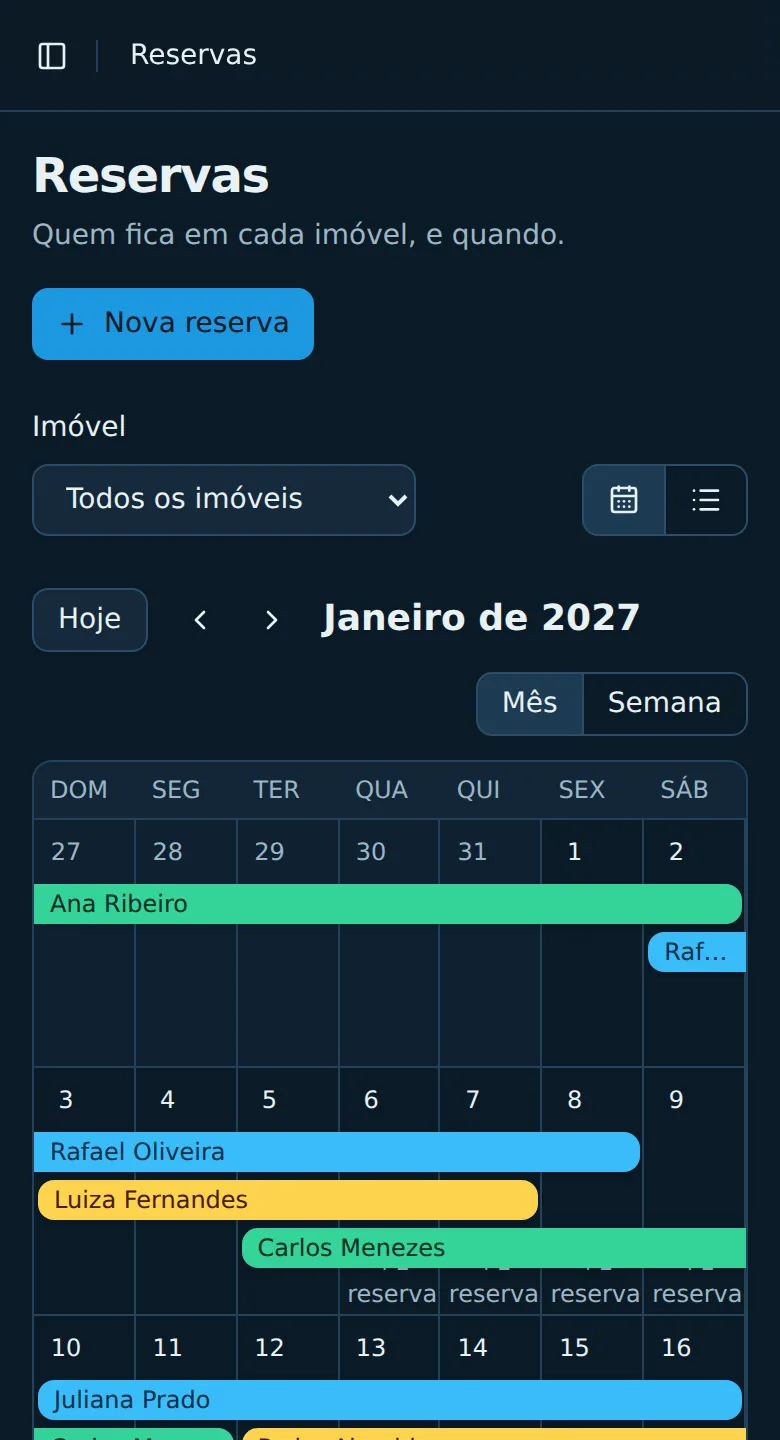
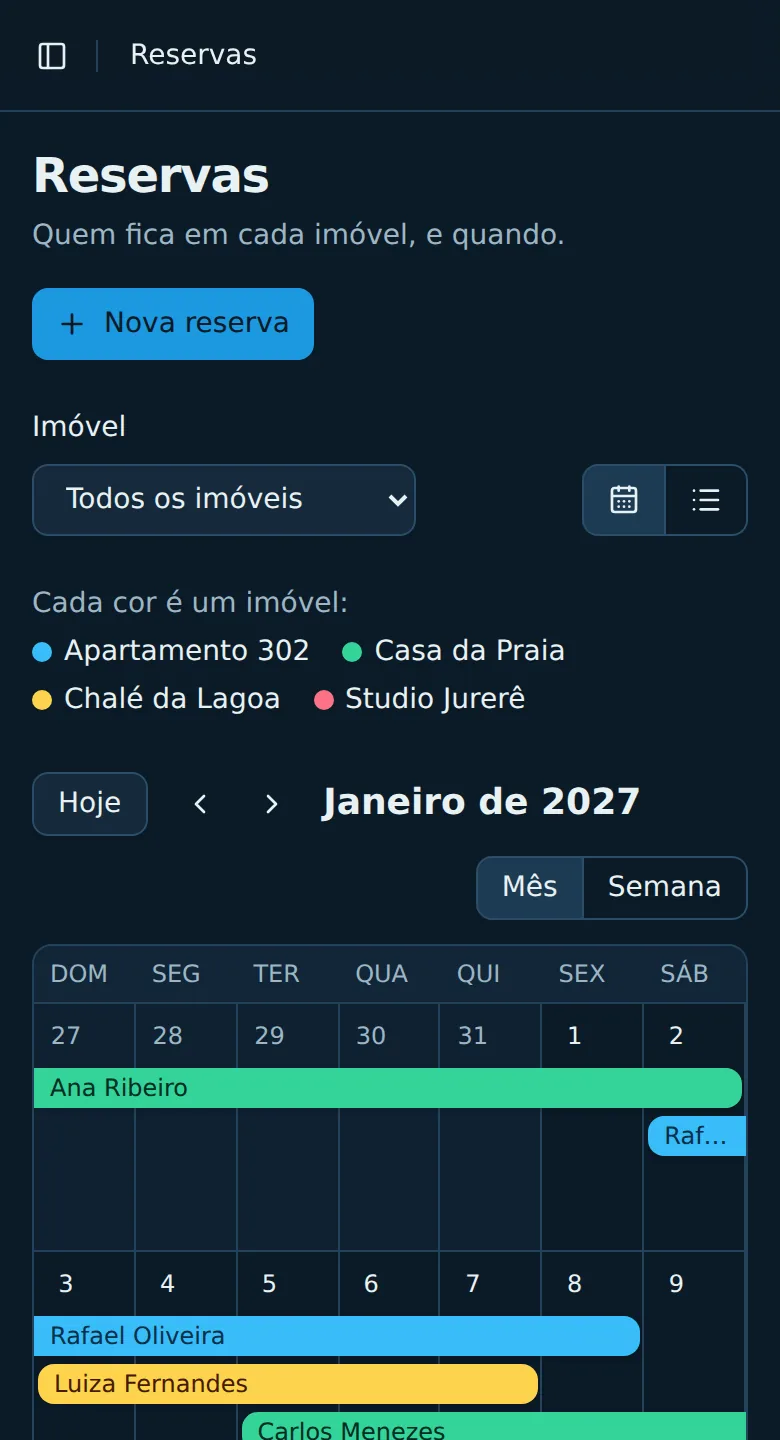
fix: recapture the home page calendar with its color legend

Changed region(s): [[0.0308, 0.4062, 0.9846, 1.0], [0.9538, 0.5625, 0.9846, 0.5938]]

diff --git a/apps/web/src/features/landing/screens.ts b/apps/web/src/features/landing/screens.ts
@@ -46,8 +46,8 @@ export const SCREENS: Screen[] = [
     label: 'Calendário',
     title: 'O mês de todos os imóveis numa tela',
     caption:
-      'Cada imóvel tem a sua cor. Uma reserva que cai em noites já ocupadas daquele imóvel não entra.',
-    alt: 'Calendário de janeiro com as reservas de quatro imóveis, cada um com uma cor.',
+      'Cada cor é um imóvel: barras lado a lado são casas diferentes. No mesmo imóvel, uma reserva que cai em noites já ocupadas não entra.',
+    alt: 'Calendário de janeiro com as reservas de quatro imóveis, cada um com uma cor, e a legenda das cores acima.',
     image: { light: calendarLight, dark: calendarDark },
     phone: { light: calendarLightPhone, dark: calendarDarkPhone },
   },
